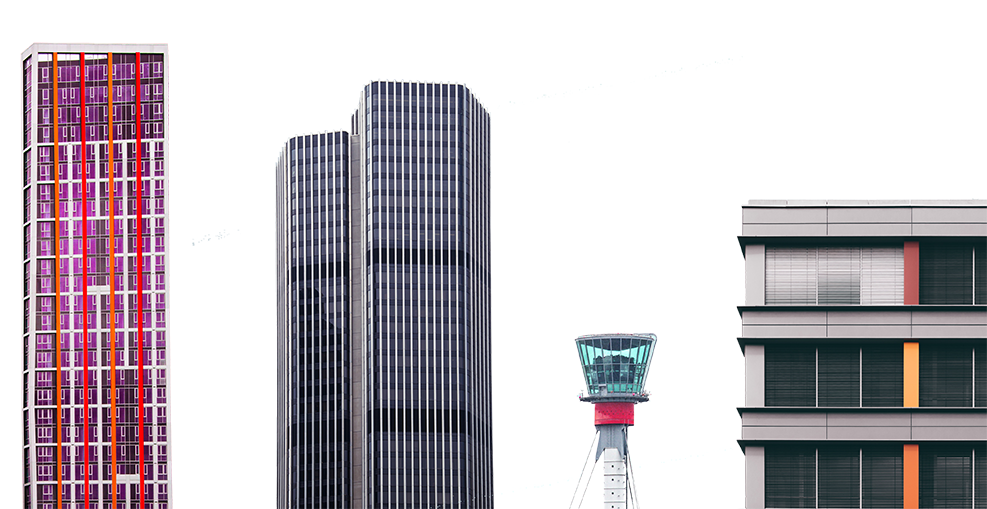
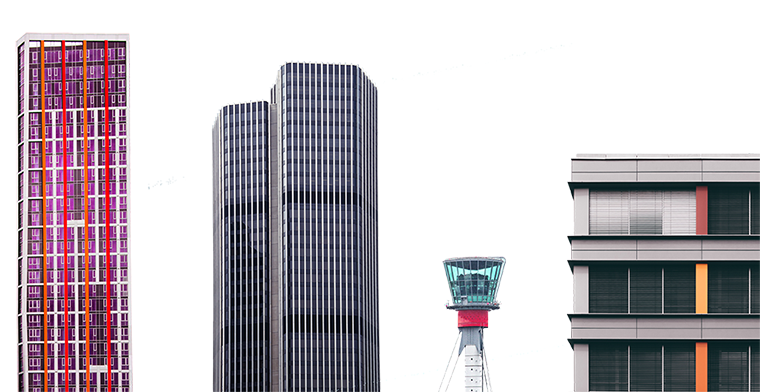
Fixed home image to be background image

diff --git a/style.css b/style.css
@@ -5,6 +5,9 @@ body{
 	padding:0;
 	color:#262626;
 	background-color: #f2f2f2;
+	background-image: url(images/home-img.png);
+	background-position: left bottom;
+	background-repeat: no-repeat;
 }
 
 .container{
@@ -25,8 +28,8 @@ body{
     and (device-width : 375px) 
     and (device-height : 812px) 
     and (-webkit-device-pixel-ratio : 3) { 
-		.home-image{
-			content:url("images/home-img-small.png");
+		body{
+			background-image: url(images/home-img-small.png);
 			width:100%;
 		}
 
@@ -53,8 +56,8 @@ body{
     and (device-width : 375px) 
     and (device-height : 667px) 
     and (-webkit-device-pixel-ratio : 2) { 
-		.home-image{
-			content:url("images/home-img-small.png");
+		body{
+			background-image: url(images/home-img-small.png);
 			width:100%;
 		}
 
@@ -81,8 +84,8 @@ body{
     and (device-width : 414px) 
     and (device-height : 736px) 
     and (-webkit-device-pixel-ratio : 3) { 
-		.home-image{
-			content:url("images/home-img-small.png");
+		body{
+			background-image: url(images/home-img-small.png);
 			width:100%;
 		}
 
@@ -106,8 +109,8 @@ body{
 
 /* For devies 760px and lower: */
 @media only screen and (max-width:760px){
-	.home-image{
-		content:url("images/home-img480px.png");
+	body{
+		background-image: url(images/home-img480px.png);
 		width:100%;
 	}
 
@@ -122,8 +125,8 @@ body{
 
 /* For screen sizes 760px - 1300px*/
 @media only screen and (min-width:761px){
-	.home-image{
-		content:url("images/home-img.png");
+	body{
+		background-image: url(images/home-img.png);
 		width:100%;
 	}
 
@@ -140,8 +143,8 @@ body{
 
 /* For medium-large screens (~1000px) */
 @media only screen and (min-width:1000px){
-	.home-image{
-		content:url("images/home-img-large.png");
+	body{
+		background-image: url(images/home-img-large.png);
 		width:100%;
 	}
 
@@ -160,8 +163,8 @@ body{
 
 /* For large screens (1300px+) */
 @media only screen and (min-width:1300px){
-	.home-image{
-		content:url("images/home-img-large.png");
+	body{
+		background-image: url(images/home-img-large.png);
 		width:100%;
 	}
 
@@ -180,8 +183,8 @@ body{
 
 /* For phone screen sizes (<480px) */
 @media only screen and (max-width:480px){
-	.home-image{
-		content:url("images/home-img-small.png");
+	body{
+		background-image: url(images/home-img-small.png);
 		width:100%;
 	}
 

diff --git a/index.html b/index.html
@@ -29,8 +29,8 @@
 				
 
 			</section><!-- end of main-content section-->
-			<div class="home-image">
-				<img src="images/home-img.png"></img>
+			<!--<div class="home-image">
+				<img src="images/home-img.png"></img>-->
 				<!--<picture>
 					<source srcset="home-image480px.png" media="(max-width:481px)">
 					<source srcset="home-image.png">
